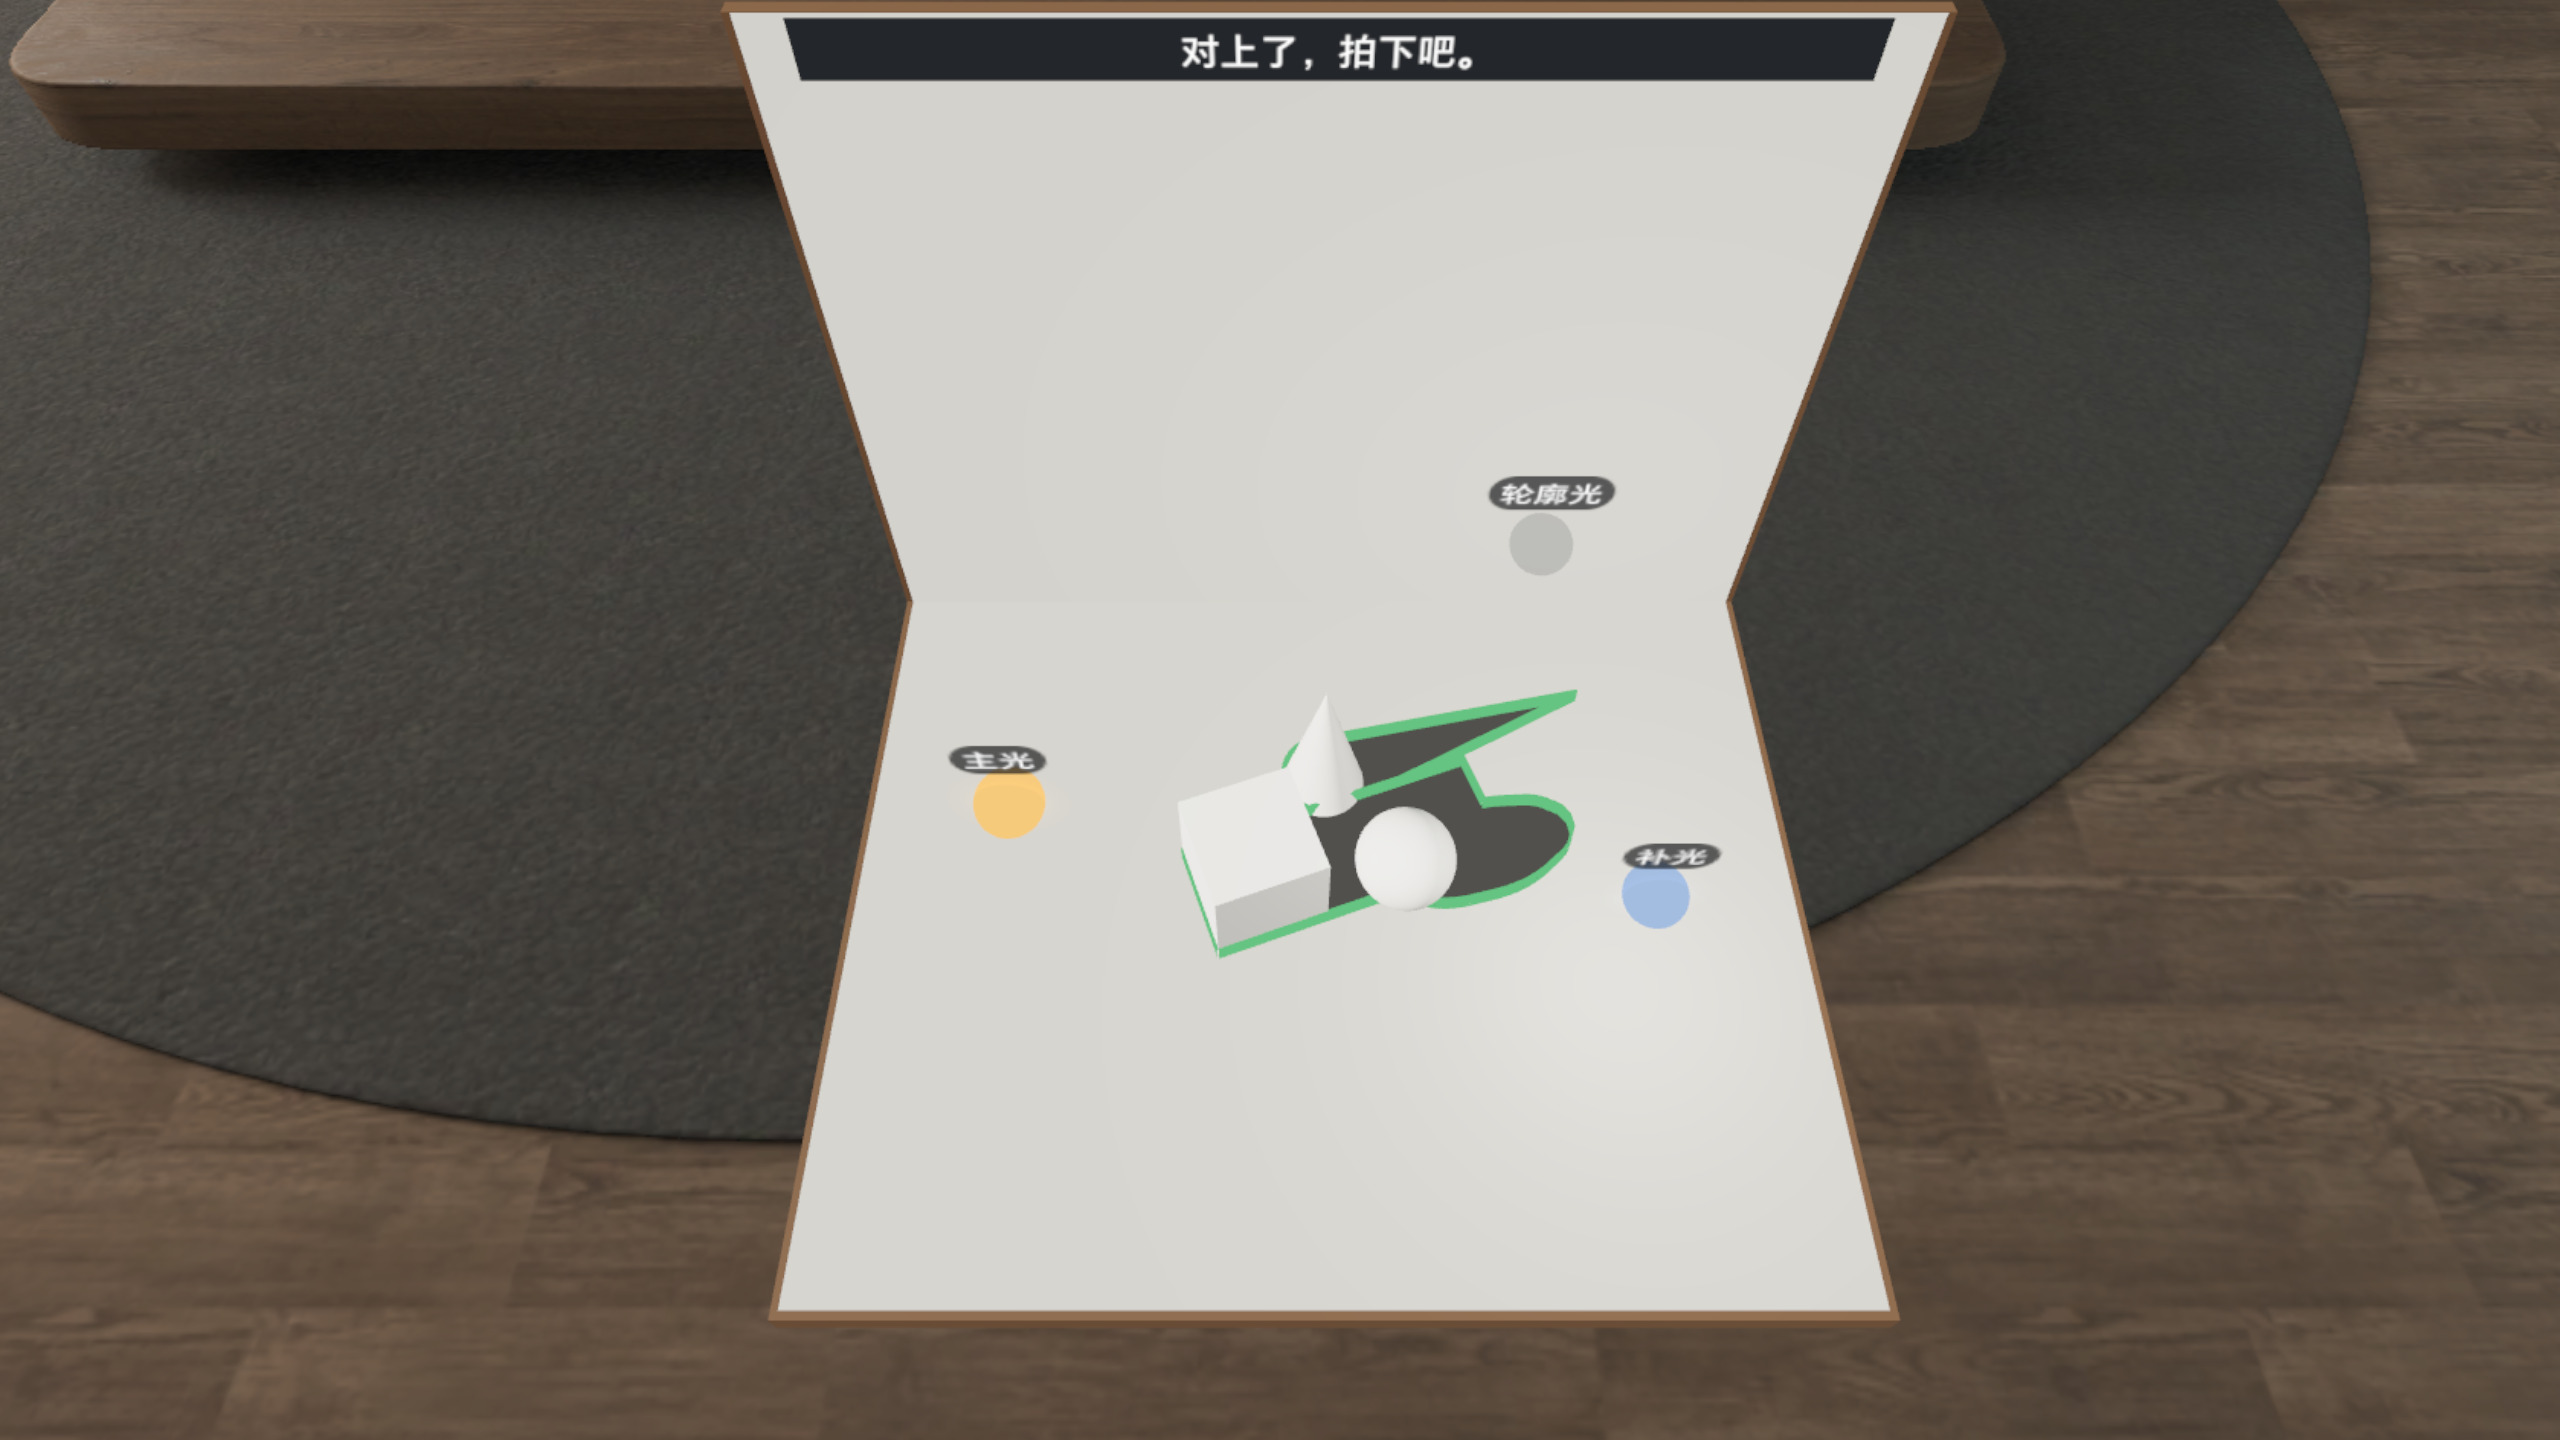
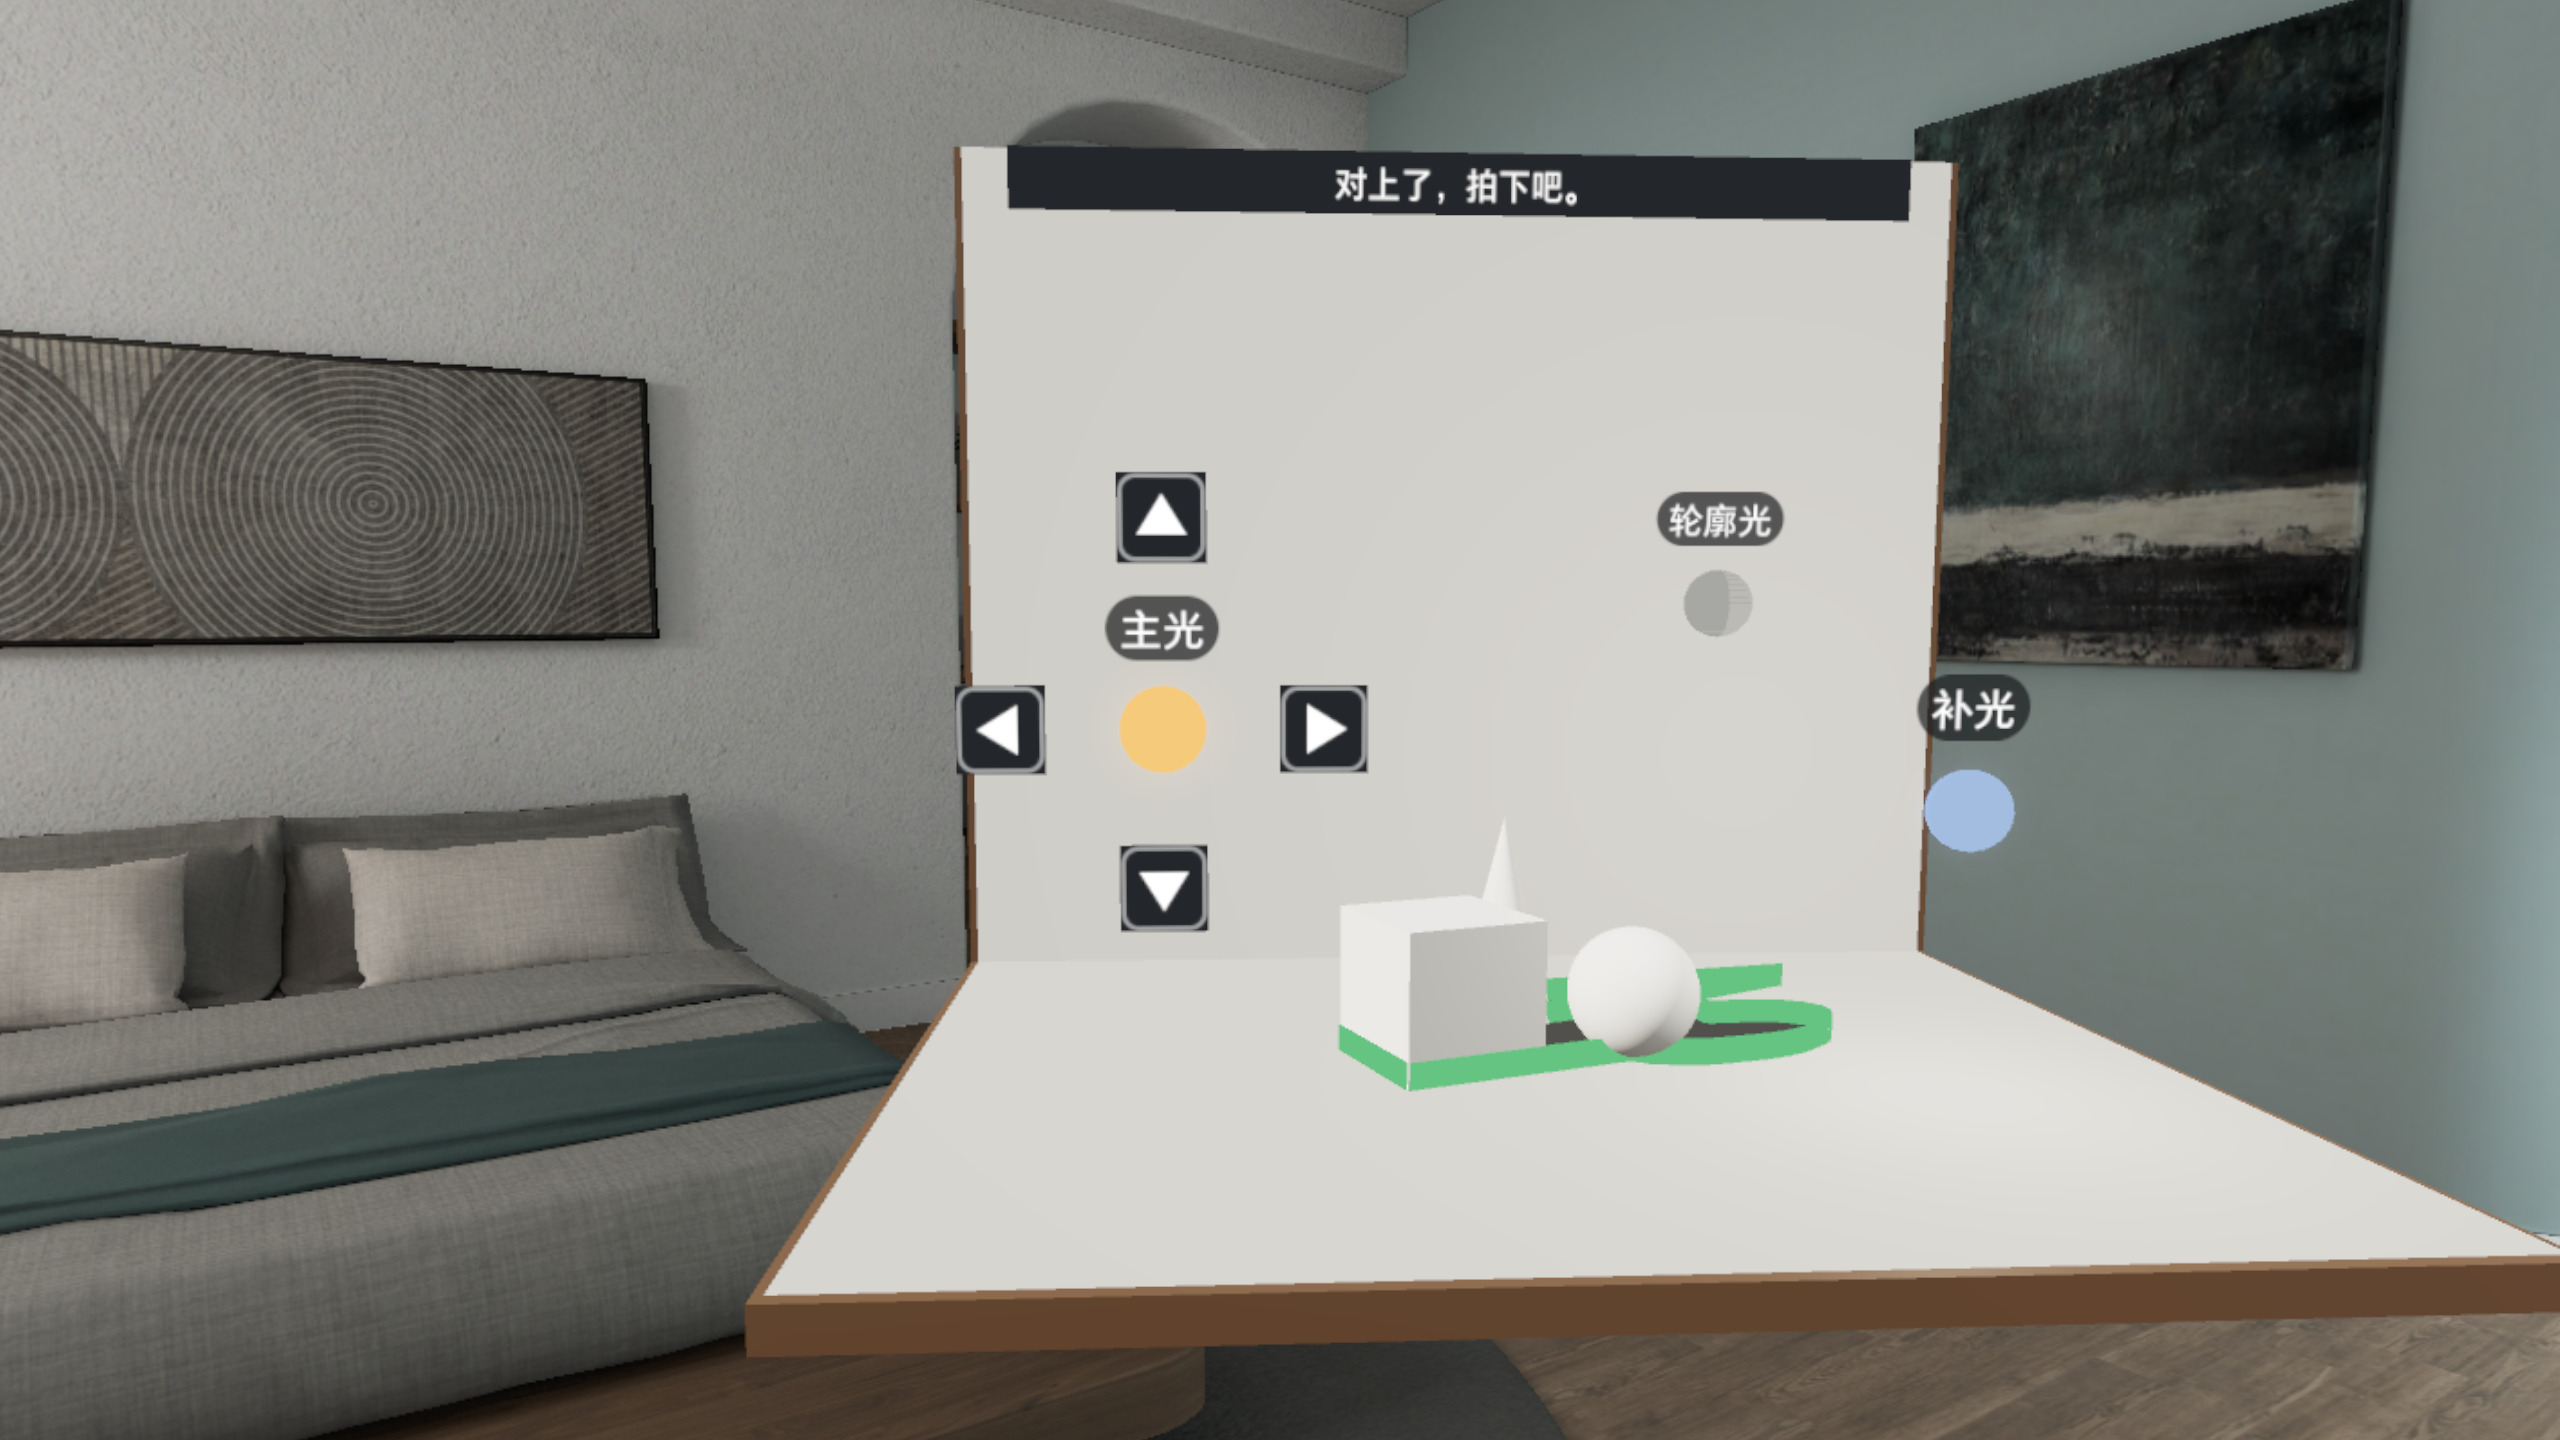
docs: v0.1.3 README, CHANGELOG, screenshots and posters (re-shot on the emulator)

diff --git a/CHANGELOG.md b/CHANGELOG.md
@@ -1,11 +1,22 @@
 # Changelog · 更新记录
 
-## v0.1.3 (2026-11-14)
-- Lights follow the hand again on the headset: drag deltas are summed (SDK sends per-event `dragAmount`).
-- 3D ▲ ▼ ◀ ▶ beside the selected light (tap or hold) as a fallback.
+## v0.1.3 · 2026-11-14
+
+- 真机上灯拖不动的问题修好了：SDK 每个拖动事件只给这一步的位移，现在先累加再移动灯，灯跟着手走、松手停住。
+- 选中的灯旁边多了 3D ▲▼◀▶ 键，点一下挪一格，按住连跳。
+- 设置里加「怎么操作」页（每个动作写手和手柄两种做法）；第一次进来台面前有一句引导。
+- 摄影棚和控制窗按启动时的眼高摆，坐着也够得着：摄影棚在右前 31°，控制窗在左前 31°（看向「看这里」牌才打开）。
+- 滑条点一下、拖一下都能换档。
+- 模拟器 QA 第 4 轮通过；三种拖灯、▲▼◀▶、左右布局坐着用的舒适度待真机确认。
+- 已知问题：首次启动字条写「控制窗关掉了」但窗口没开过；L5 / L7 开局补光藏在主光后；横拖灯会顺带抬高。
+
+- Lights follow the hand again on the headset: the SDK sends each drag event's own delta, which is now summed before moving the light.
+- 3D ▲ ▼ ◀ ▶ keys beside the selected light (tap, or hold to repeat).
 - Settings > How to use (hand and controller for every action) and a first-entry tip in front of the subject.
-- Default height follows your eye (seated or standing): subject 13° below the line of sight; studio and window side by side.
+- Studio and window follow your eye height (seated or standing): studio 31° front-right, window 31° front-left (opens when you look at the "Look here" plate).
 - Sliders follow taps and small drags, then settle on a step.
+- Emulator QA round 4 passed; the three drag methods, the step keys and seated comfort still need an on-device check.
+- Known issues: the first-launch strip says the window was closed although it never opened; in L5 / L7 the fill light starts behind the key light; a sideways drag also lifts the light.
 
 ## v0.1.2 · 2026-11-13
 
